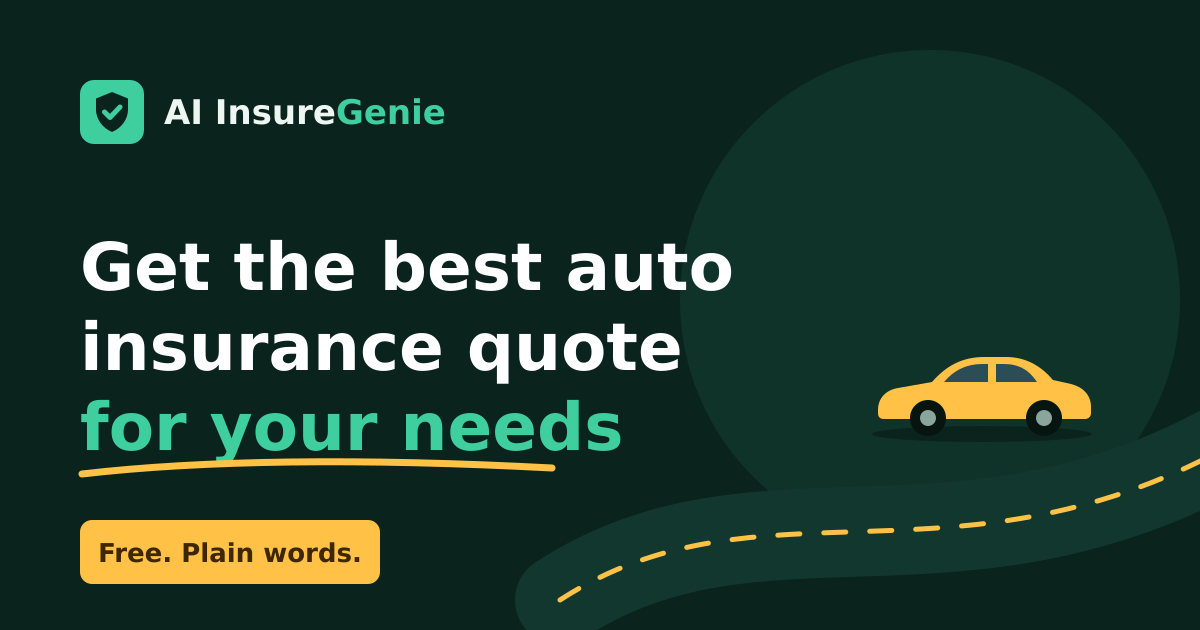
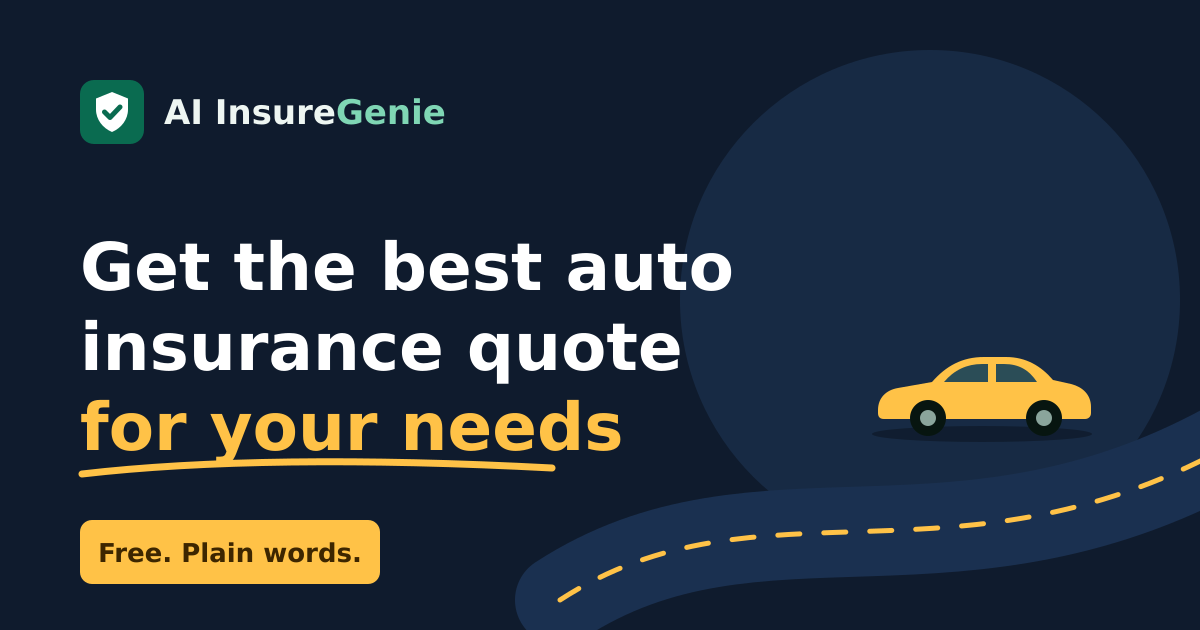
Preview: Midnight navy + sunshine palette
Navy replaces deep green for dark sections, structure and secondary
buttons; sunshine yellow stays the only primary button colour; green
is kept as the brand signature (logo, checkmarks, progress, success).
Neutral icon tiles and labels, light slate feature section, navy chat
bubbles in the phone mockups, and a navy share image.

Claude-Session: https://claude.ai/code/session_01XczP2dQtrA7kDk23r37jVw

diff --git a/site/src/styles.css b/site/src/styles.css
@@ -685,3 +685,69 @@ section.cream .mstep, section.cream .match-card, section.cream .hard { backgroun
 .nav a.lang { color: var(--ink); }
 .es-note { margin-top: var(--s3); font-size: var(--text-meta); color: var(--muted); }
 .inv .es-note { color: var(--muted); }
+
+/* =========================================================
+   v7 — Midnight navy + sunshine
+   60% warm neutral · 30% navy (dark sections, text, structure)
+   10% sunshine (primary buttons) · green only as brand signature
+   (logo, checkmarks, progress, success)
+   ========================================================= */
+:root {
+  --canvas: #faf8f3; --surface: #ffffff; --sunk: #eef1f6;
+  --ink: #0f1b2d; --muted: #4a5a70;
+  --border: rgba(15, 27, 45, 0.12); --control: rgba(15, 27, 45, 0.28);
+  --accent: #1e3a5f; --accent-hover: #16304f; --accent-tint: #e8eef6; --accent-ink: #ffffff;
+  --brand: #0a6b50; --brand-tint: #e4f0eb;
+  --cream: #f2f5f9; --cream-line: #e0e6ee;
+  --scene: #e8eef6; --road: #dce3ec;
+  --shadow: 0 1px 2px rgba(15, 27, 45, 0.05), 0 6px 20px rgba(15, 27, 45, 0.06);
+}
+@media (prefers-color-scheme: dark) {
+  :root:not([data-theme="light"]) {
+    --canvas: #0b1220; --surface: #121c2e; --sunk: #0e1727; --ink: #e8edf5; --muted: #a3b0c2;
+    --border: rgba(232, 237, 245, 0.12); --control: rgba(232, 237, 245, 0.3);
+    --accent: #8fb4e0; --accent-hover: #b0cbea; --accent-tint: #1b2a44; --accent-ink: #0b1220;
+    --brand: #3fcf9f; --brand-tint: #15302a; --cream: #101a2b; --cream-line: #1f2c42;
+    --scene: #172a44; --road: #1a3050;
+  }
+}
+:root[data-theme="dark"] {
+  --canvas: #0b1220; --surface: #121c2e; --sunk: #0e1727; --ink: #e8edf5; --muted: #a3b0c2;
+  --border: rgba(232, 237, 245, 0.12); --control: rgba(232, 237, 245, 0.3);
+  --accent: #8fb4e0; --accent-hover: #b0cbea; --accent-tint: #1b2a44; --accent-ink: #0b1220;
+  --brand: #3fcf9f; --brand-tint: #15302a; --cream: #101a2b; --cream-line: #1f2c42;
+  --scene: #172a44; --road: #1a3050;
+}
+
+/* Dark sections: midnight navy instead of deep green */
+.inv {
+  --canvas: #0f1b2d; --surface: #16253b; --sunk: #12203a; --ink: #eef2f7; --muted: #a9b6c8;
+  --border: rgba(238, 242, 247, 0.14); --control: rgba(238, 242, 247, 0.34);
+  --accent: #7fd6b4; --accent-hover: #a5e4cb; --accent-tint: #1d3350; --accent-ink: #0f1b2d;
+  --scene: #172a44; --road: #1a3050; --car-glass: #2b4d57;
+}
+.hero4 h1 em { color: var(--sun); }
+
+/* Green only as the brand signature */
+.logo-mark { background: var(--brand); color: #fff; }
+.logo em { color: var(--brand); }
+.inv .logo em, .inv .logo-mark { color: inherit; }
+.dot { background: var(--brand); }
+.goal:has(input:checked)::after { border-color: var(--brand); background-color: var(--brand); }
+.mstep.done .num { background: var(--brand); border-color: var(--brand); color: #fff; }
+.mstep.done { border-color: color-mix(in srgb, var(--brand) 40%, transparent); }
+.match-card .progress i, .meter i.on, .trend .gauge i.on { background: var(--brand); }
+.match-card.ready { border-color: var(--brand); background: var(--brand-tint); }
+.pick:has(input:checked) { background: var(--accent); border-color: var(--accent); color: var(--accent-ink); }
+.story li.on .num, .steps li::before { background: var(--accent); color: var(--accent-ink); }
+
+/* Neutral, calmer icon tiles and labels */
+.goal .ico, .tile .ico, .ways .ico { background: var(--sunk); color: var(--accent); }
+.goal:has(input:checked) .ico { background: var(--accent); color: var(--accent-ink); }
+.hard .ico { background: #fff1d0; color: #8a4300; }
+.eyebrow { color: var(--muted); letter-spacing: 0.01em; }
+.inv .eyebrow { color: var(--accent); }
+.hard .go { color: var(--accent); }
+
+/* Chat mockups inside the phone: navy bubbles, sunshine Genie avatar */
+.phone .screen { --accent: #1e3a5f; --accent-hover: #16304f; --accent-tint: #e8eef6; --ink: #0f1b2d; --muted: #4a5a70; }
